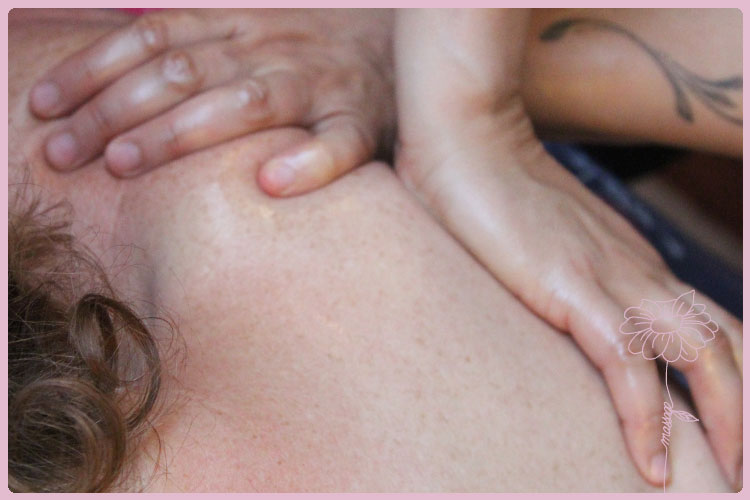
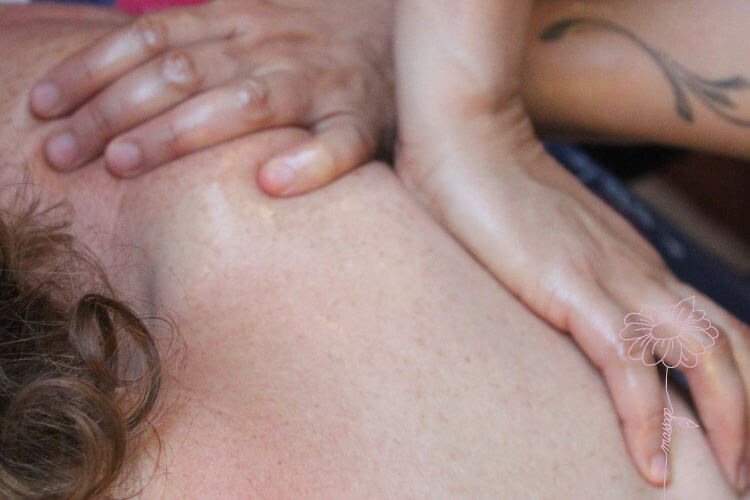
updates images and css

Changed region(s): [[0.0, 0.0, 1.0, 1.0], [0.8587, 0.78, 0.92, 0.9]]

diff --git a/themes/hanamibienetre/assets/css/main.css b/themes/hanamibienetre/assets/css/main.css
@@ -52,7 +52,7 @@ body {
   left: 0;
   right: 0;
   top: 0;
-  z-index: 10;
+  z-index: 200;
 }
 
 .main {
@@ -249,6 +249,11 @@ body {
   text-decoration: none;
 }
 
+.picture {
+  border-radius: 3px;
+  border: 5px solid #e3bbce;
+}
+
 .care-visual {
   border-radius: 3px;
   display: block;
@@ -256,6 +261,7 @@ body {
   height: auto;
   transition: all 0.2s ease-in-out;
   width: 100%;
+  border: 5px solid #e3bbce;
 }
 
 .care-item a:hover .care-visual {
